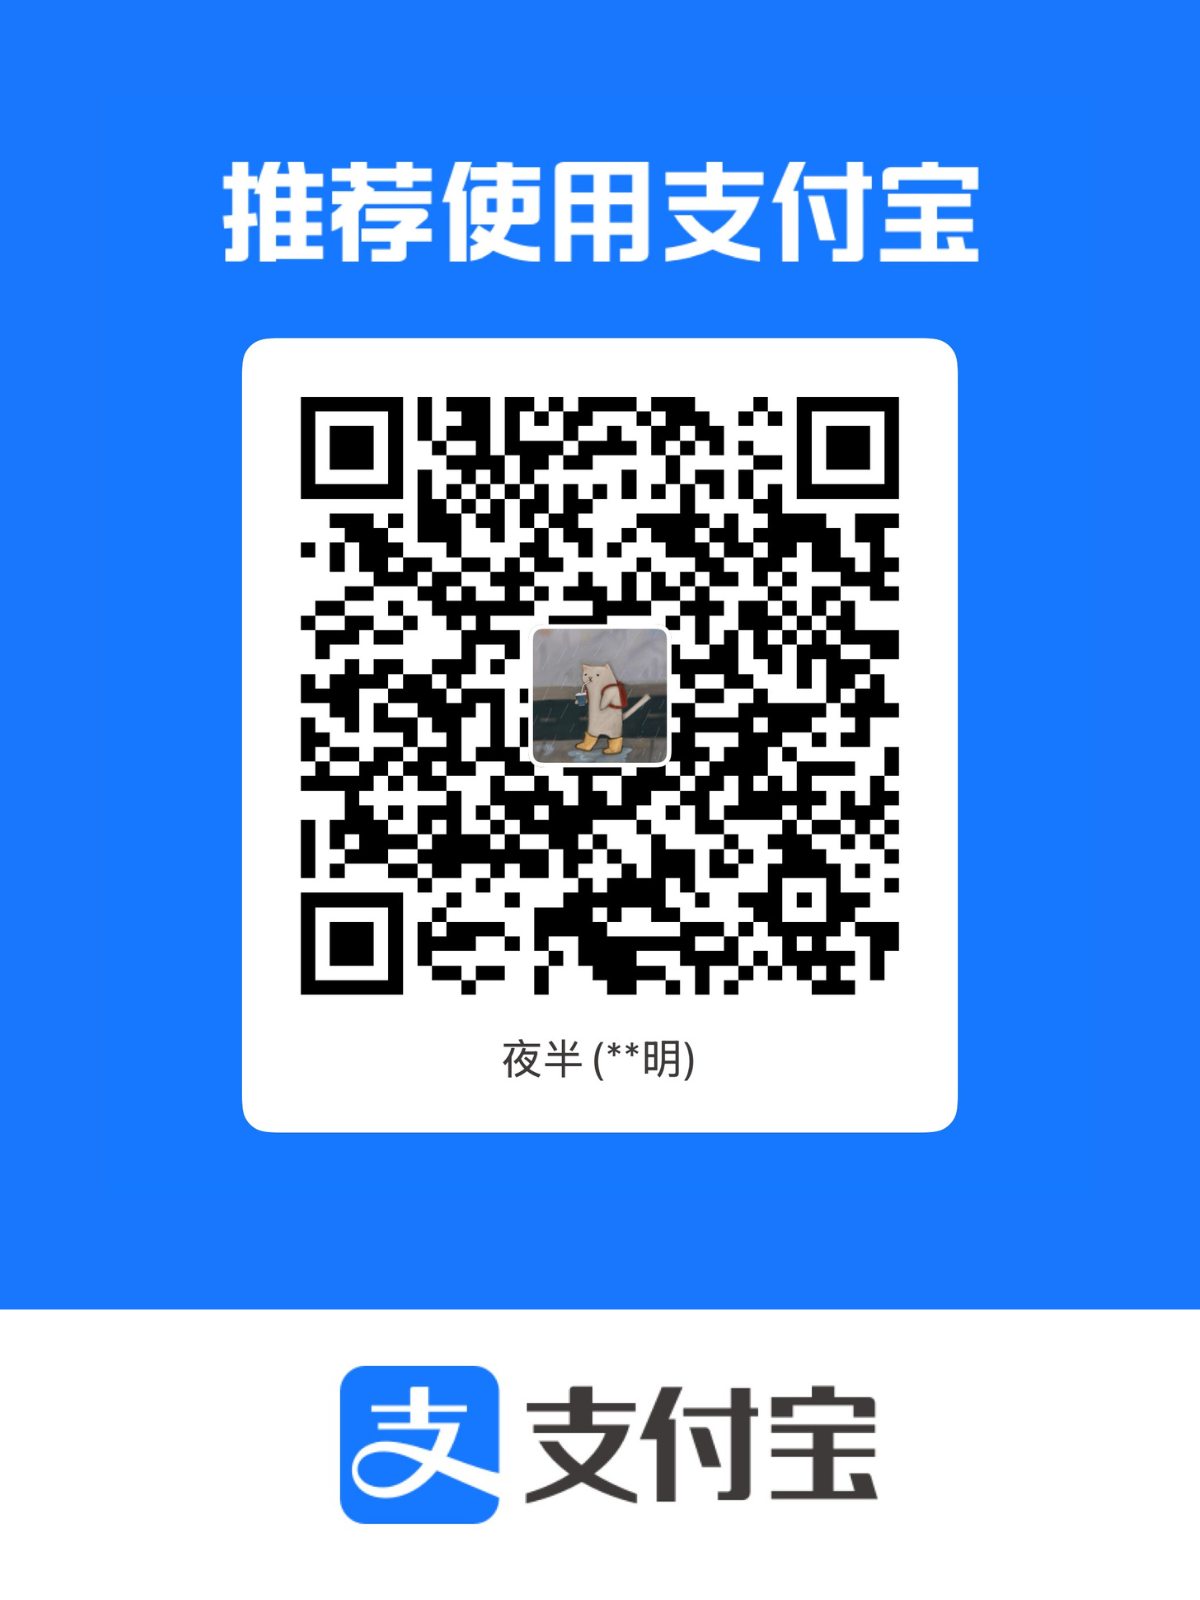
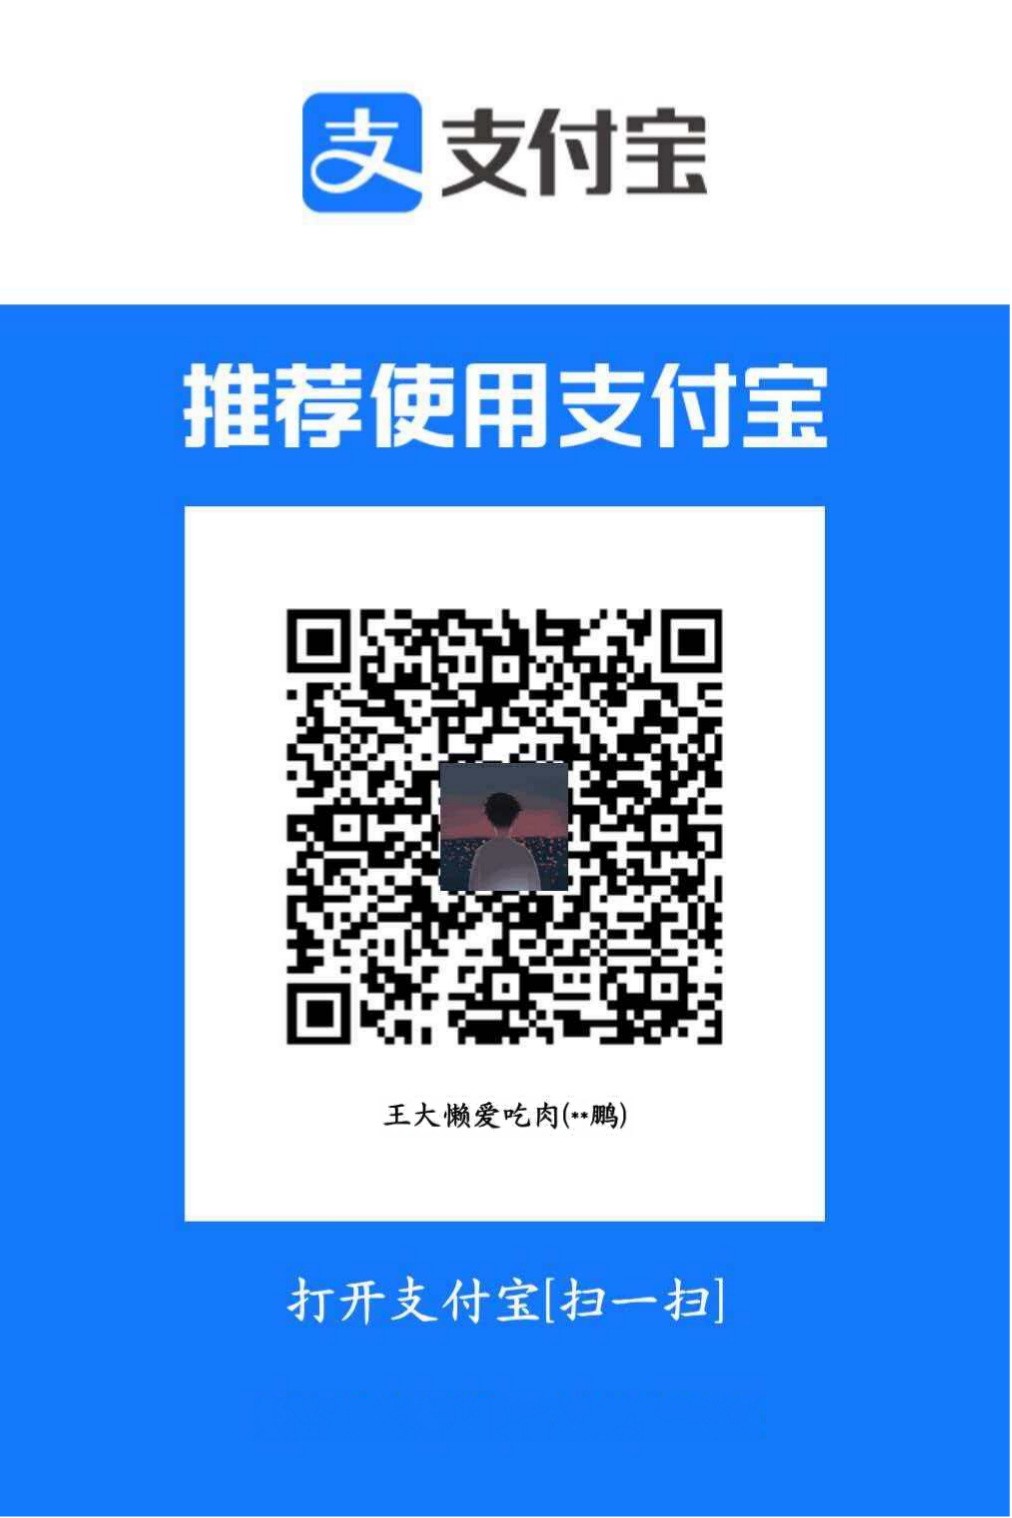
chore: 更新捐赠图片和说明文档
- 更新支付宝捐赠二维码
- 替换微信支付图片为 jpg 格式
- 添加 Obsidian 发布指南
- 更新 .gitignore 排除 zhuti 文件夹和部署脚本

diff --git a/OBSIDIAN_MARKET_GUIDE.md b/OBSIDIAN_MARKET_GUIDE.md
@@ -1,0 +1,317 @@
+# 📤 Obsidian 社区插件上架完整指南
+
+## 🎯 上架前检查清单
+
+### ✅ 必需文件检查
+
+您的插件目录应包含以下文件：
+
+```
+ai-qitongxue-preview/
+├── main.js           ✅ 已有
+├── manifest.json     ✅ 已有
+├── styles.css        ✅ 已有
+└── README.md         ✅ 已有
+```
+
+### ✅ manifest.json 检查
+
+```json
+{
+    "id": "ai-qitongxue-preview",              // ✅ 唯一 ID
+    "name": "Ai淇橦学排版预览",                   // ✅ 显示名称
+    "version": "1.0.0",                        // ✅ 版本号
+    "minAppVersion": "0.15.0",                 // ✅ 最低 Obsidian 版本
+    "description": "描述信息",                  // ✅ 描述
+    "author": "Ai淇橦学",                        // ✅ 作者
+    "authorUrl": "GitHub URL",                // ✅ 作者链接
+    "isDesktopOnly": false                     // ✅ 是否仅桌面端
+}
+```
+
+### ✅ 功能测试清单
+
+- [ ] 插件可以正常安装
+- [ ] 插件可以正常卸载
+- [ ] 所有核心功能正常工作
+- [ ] 设置页面正常显示
+- [ ] 没有控制台错误
+- [ ] 在最新版 Obsidian 中测试
+
+---
+
+## 📋 上架步骤
+
+### 第 1 步：Fork 官方仓库
+
+1. 访问：https://github.com/obsidianmd/obsidian-releases
+2. 点击右上角 **Fork** 按钮
+3. 等待 Fork 完成
+
+### 第 2 步：克隆您的 Fork
+
+```powershell
+# 克隆到本地
+git clone https://github.com/wangdalan273/obsidian-releases.git
+cd obsidian-releases
+```
+
+### 第 3 步：编辑 plugins.json
+
+1. 用文本编辑器打开 `plugins.json`
+2. 按字母顺序找到合适的位置
+3. 添加您的插件信息：
+
+```json
+{
+    "id": "ai-qitongxue-preview",
+    "name": "Ai淇橦学排版预览",
+    "author": "Ai淇橦学",
+    "description": "一键将 Markdown 文档转换为微信公众号格式，支持多种模板样式和自定义主题",
+    "repo": "wangdalan273/ai-qitongxue-preview"
+}
+```
+
+**重要提示**：
+- 确保前后都有逗号（JSON 格式）
+- 按字母顺序插入
+- 使用英文标点
+
+### 第 4 步：提交更改
+
+```powershell
+# 添加文件
+git add plugins.json
+
+# 提交
+git commit -m "Add plugin: ai-qitongxue-preview"
+
+# 推送
+git push origin main
+```
+
+### 第 5 步：创建 Pull Request
+
+1. 访问：https://github.com/wangdalan273/obsidian-releases
+2. 点击 **Contribute** → **Open pull request**
+3. 填写 PR 信息
+
+**PR 标题**：
+```
+Add plugin: ai-qitongxue-preview
+```
+
+**PR 描述**：
+```markdown
+## Plugin Information
+
+**Plugin Name**: Ai淇橦学排版预览
+**Plugin ID**: ai-qitongxue-preview
+**Author**: Ai淇橦学
+**GitHub**: https://github.com/wangdalan273/ai-qitongxue-preview
+
+## Description
+
+一键将 Markdown 文档转换为微信公众号格式，支持多种模板样式和自定义主题。
+
+## Features
+
+- 🚀 一键转换 Markdown 为公众号格式
+- 🎨 内置多种精美模板
+- 🎯 实时预览效果
+- 🔧 高度可定制（字体、背景、颜色）
+- 📦 完整的模板、字体、背景管理功能
+
+## Screenshots
+
+（可选：添加截图链接）
+
+## Testing
+
+✅ 已在 Obsidian 最新版本中测试
+✅ 所有功能正常工作
+✅ 无控制台错误
+
+---
+
+I have read the [Plugin Submission Guidelines](https://github.com/obsidianmd/obsidian-releases/blob/master/README.md#plugin-submission-guidelines) and confirm my plugin follows the requirements.
+```
+
+4. 点击 **Create pull request**
+
+---
+
+## ⏳ 审核流程
+
+### 时间线
+
+- **提交后**: PR 进入审核队列
+- **1-3 天**: 初步审核
+- **3-7 天**: 完整审核（可能需要修改）
+
+### 可能的反馈
+
+#### 1. 需要修改
+
+如果审核人员要求修改：
+
+```powershell
+# 修改您的插件
+cd D:\ai-qitongxue-preview
+# 进行修改...
+
+# 更新版本号
+# 修改 manifest.json 中的 version
+
+# 提交并推送
+git add .
+git commit -m "Update: fix issues"
+git push
+
+# 创建新版本标签
+git tag -a v1.0.1 -m "Update v1.0.1"
+git push origin v1.0.1
+```
+
+#### 2. 需要更多信息
+
+在 PR 中回复审核人员的问题，提供所需信息。
+
+#### 3. 审核通过
+
+恭喜！您的插件将出现在 Obsidian 插件市场！
+
+---
+
+## 📱 审核通过后
+
+### 1. 用户如何安装
+
+用户可以在 Obsidian 设置中：
+1. 进入 **社区插件**
+2. 搜索 **"Ai淇橦学排版预览"** 或 **"ai-qitongxue-preview"**
+3. 点击 **安装**
+4. 启用插件
+
+### 2. 更新插件
+
+```powershell
+# 修改代码
+cd D:\ai-qitongxue-preview
+
+# 更新版本号（在 manifest.json 中）
+# 从 1.0.0 → 1.0.1
+
+# 提交
+git add .
+git commit -m "Update: 新功能描述"
+git push
+
+# 创建新标签
+git tag -a v1.0.1 -m "Release v1.0.1"
+git push origin v1.0.1
+
+# GitHub 会自动检测到新 Release
+# Obsidian 插件市场会在几小时内更新
+```
+
+### 3. 宣传插件
+
+在您的公众号 **"AI淇橦学"** 中发文：
+
+**标题**：🎉 我开发了一个 Obsidian 插件！
+
+**内容**：
+```
+【插件发布】我开发了一个 Obsidian 插件，可以一键将 Markdown 转换为微信公众号格式！
+
+✨ 主要功能：
+- 一键转换，无需繁琐排版
+- 内置多种精美模板
+- 实时预览效果
+- 高度可定制
+
+📦 安装方法：
+1. 打开 Obsidian 设置
+2. 进入社区插件
+3. 搜索"Ai淇橦学排版预览"
+4. 点击安装即可使用
+
+🔗 GitHub: https://github.com/wangdalan273/ai-qitongxue-preview
+
+欢迎大家使用并提出宝贵意见！
+```
+
+---
+
+## ⚠ 注意事项
+
+### 1. 版本控制
+
+- 版本号必须遵循 [语义化版本](https://semver.org/lang/zh-CN/)
+- 格式：`主版本号.次版本号.修订号`
+- 示例：`1.0.0` → `1.0.1` → `1.1.0` → `2.0.0`
+
+### 2. 更新频率
+
+- 不要过于频繁地提交小更新
+- 建议积累一定改进后批量更新
+- 重大更新（如 1.0.0 → 2.0.0）要有充分理由
+
+### 3. 代码质量
+
+- 保持代码整洁
+- 添加必要的注释
+- 遵循 TypeScript 最佳实践
+
+### 4. 用户反馈
+
+- 及时回复 GitHub Issues
+- 认真考虑用户的建议
+- 快速修复 bug
+
+---
+
+## 🆘 常见问题
+
+### Q1: PR 提交后多久能通过？
+
+A: 通常 **1-7 个工作日**。如果超过 7 天没有回复，可以在 PR 中礼貌地询问。
+
+### Q2: 审核被拒怎么办？
+
+A: 仔细阅读拒绝原因，修改后重新提交。大多数拒绝原因都是可以修正的。
+
+### Q3: 可以上架商业插件吗？
+
+A: Obsidian 社区插件市场只接受免费插件。如果要收费，需要自己在其他渠道分发。
+
+### Q4: 插件上架后可以改名吗？
+
+A: 不建议。改名会影响已安装用户。如需改名，最好创建新插件。
+
+### Q5: 如何删除插件？
+
+A: 在 PR 中说明要删除，或在 issues 中联系维护者。
+
+---
+
+## 📚 参考资源
+
+- [Obsidian 插件开发文档](https://docs.obsidian.md/Plugins/Getting+started/Build+a+plugin)
+- [插件提交指南](https://github.com/obsidianmd/obsidian-releases/blob/master/README.md#plugin-submission-guidelines)
+- [插件审核标准](https://github.com/obsidianmd/obsidian-releases/blob/master/README.md#review-criteria)
+
+---
+
+## 🎉 准备好了吗？
+
+现在就开始吧！
+
+1. ✅ Fork 官方仓库
+2. ✅ 添加插件信息
+3. ✅ 提交 PR
+4. ⏳ 等待审核
+5. 🎉 上架成功！
+
+**祝您的插件顺利上架！** 🚀
